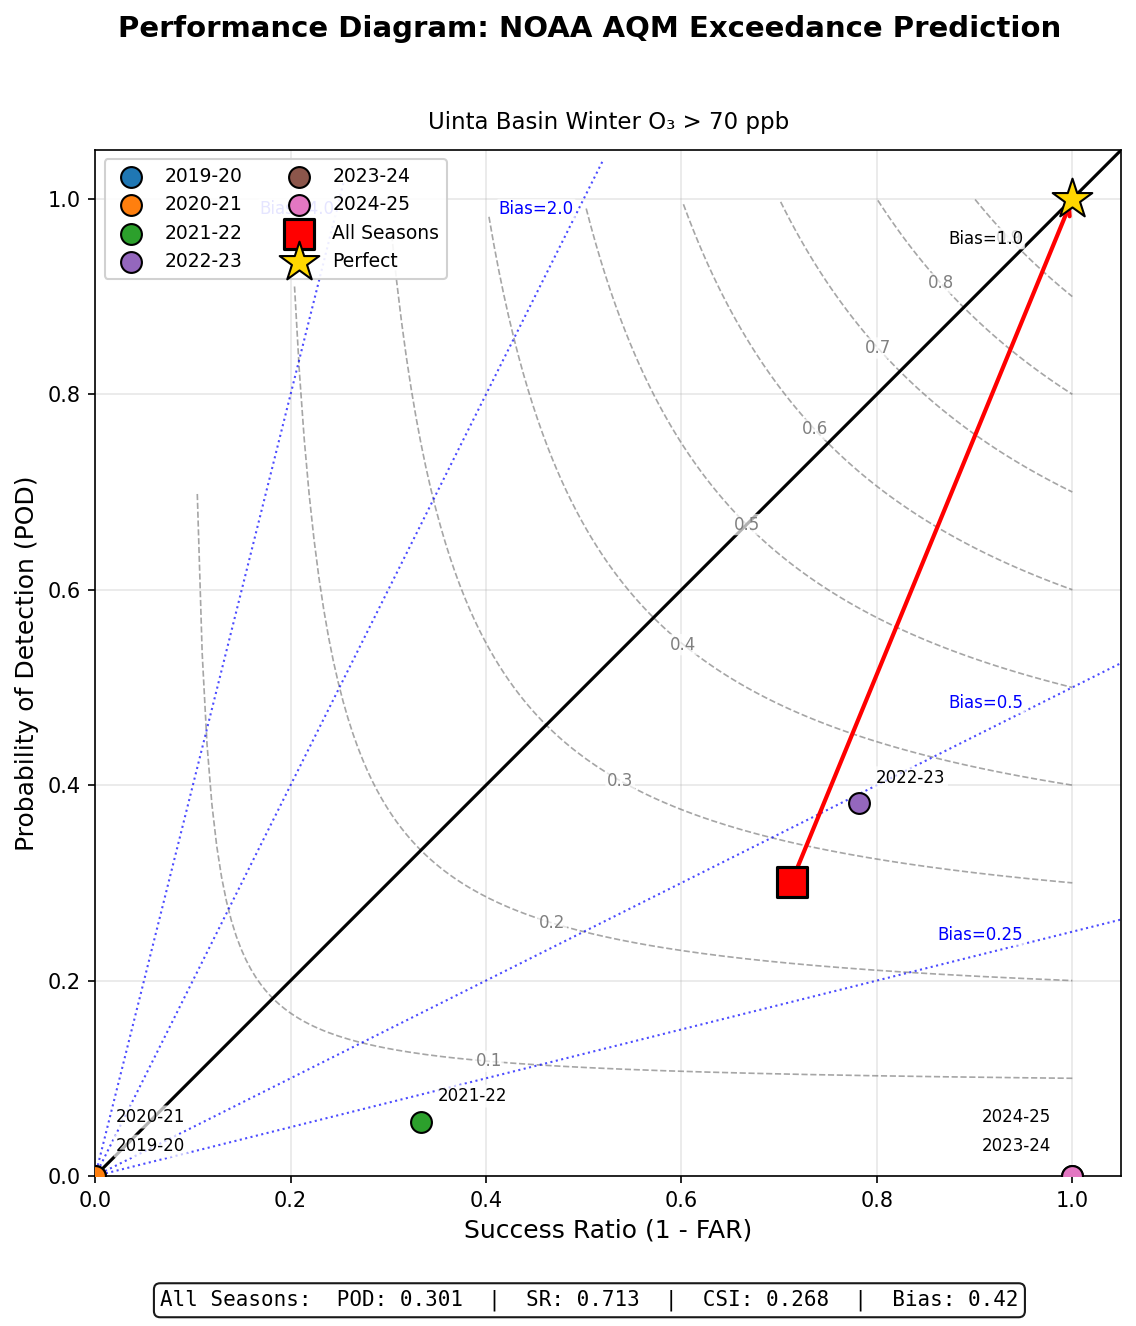
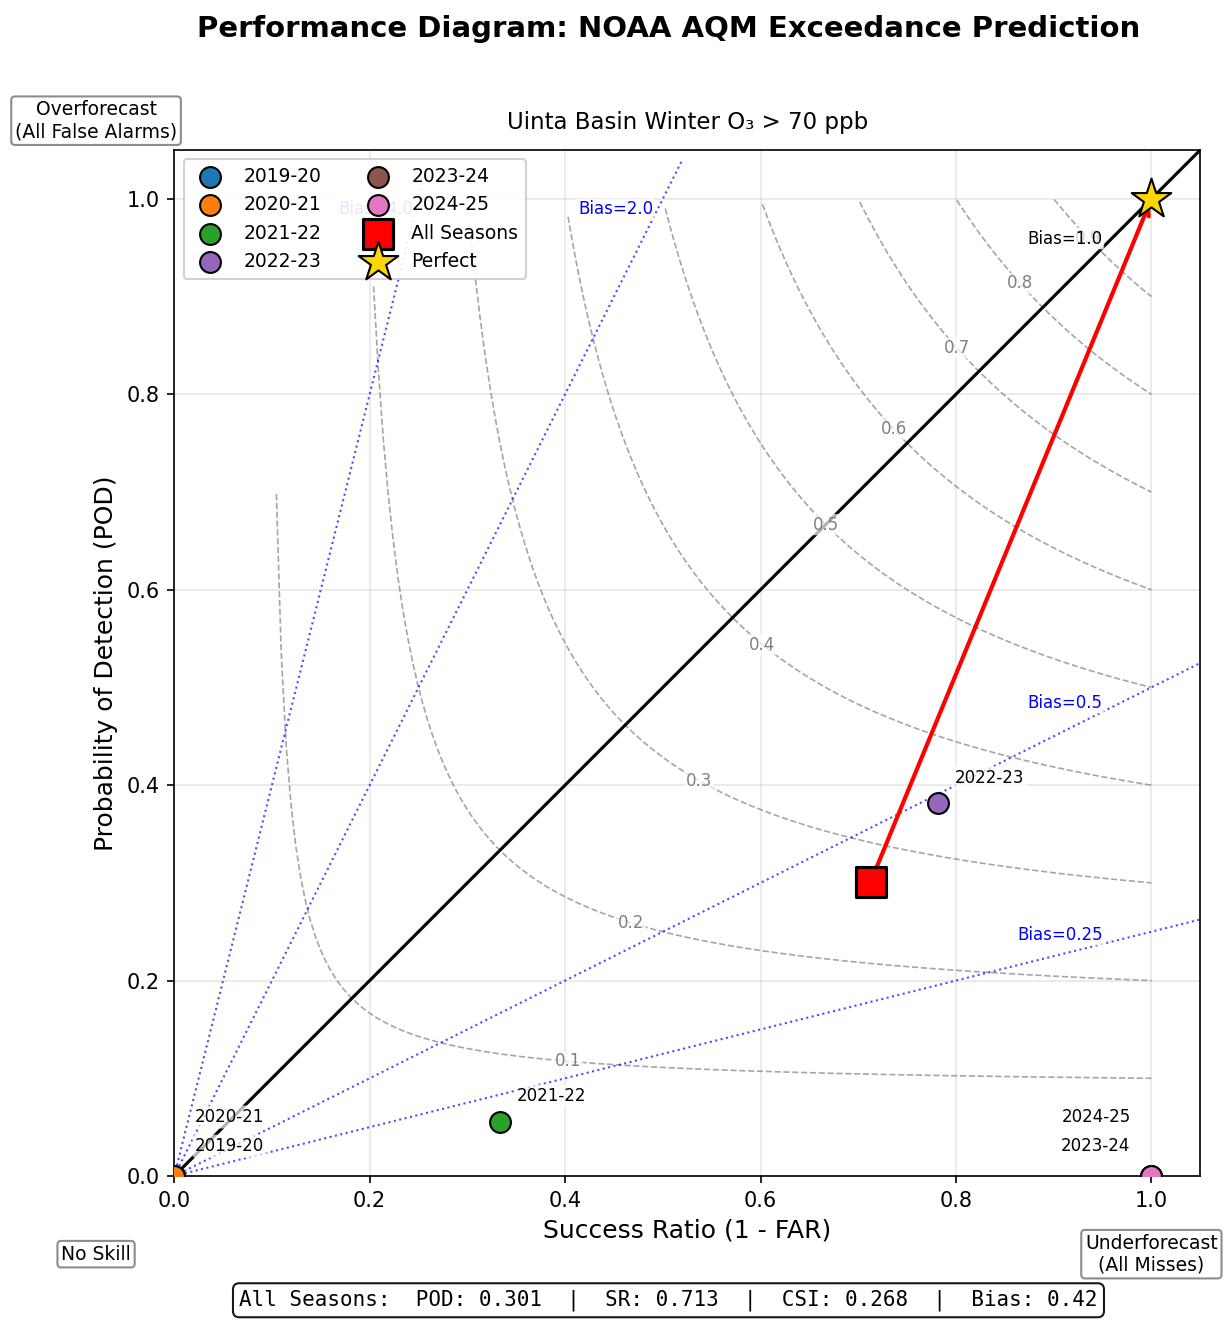
Add corner labels to performance diagram

diff --git a/src/plot_performance_diagram.py b/src/plot_performance_diagram.py
@@ -294,6 +294,17 @@ def main():
     # Grid
     ax.grid(True, alpha=0.3, zorder=0)
 
+    # Corner labels explaining what each corner represents
+    corner_style = dict(fontsize=9, ha='center', va='center',
+                        bbox=dict(boxstyle='round,pad=0.2', facecolor='white',
+                                  edgecolor='gray', alpha=0.9))
+    ax.text(-0.08, 1.08, 'Overforecast\n(All False Alarms)',
+            transform=ax.transData, **corner_style)
+    ax.text(1.0, -0.08, 'Underforecast\n(All Misses)',
+            transform=ax.transData, **corner_style)
+    ax.text(-0.08, -0.08, 'No Skill',
+            transform=ax.transData, **corner_style)
+
     # Season legend (upper left)
     ax.legend(loc='upper left', fontsize=9, framealpha=0.9, ncol=2)
 
